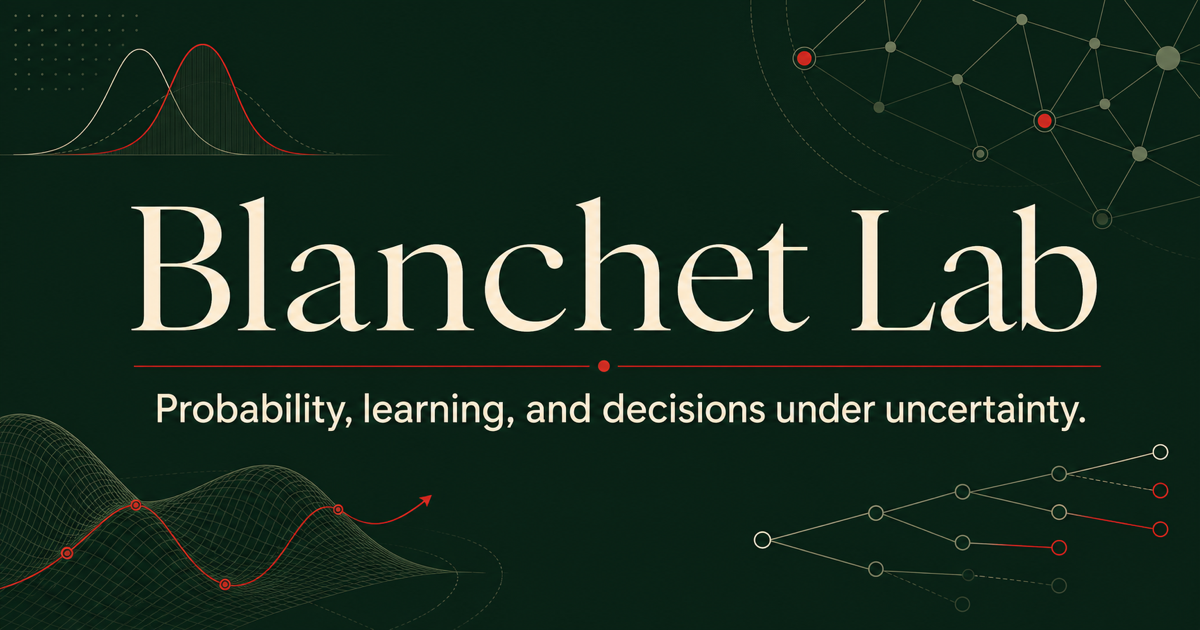
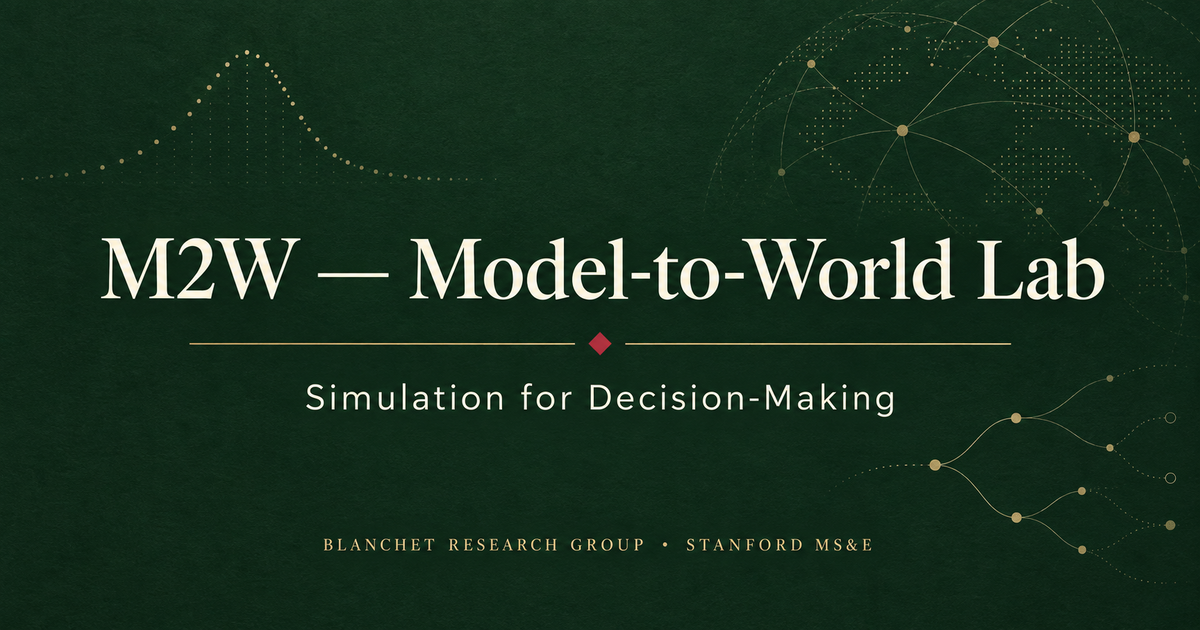
Spell out Model-to-World Lab identity

diff --git a/app/globals.css b/app/globals.css
@@ -32,8 +32,9 @@ img { display: block; max-width: 100%; }
 }
 .brand img { height: auto; width: min(248px, 48vw); }
 .brand-wordmark { display: flex; flex-direction: column; gap: 4px; }
-.brand-primary { font-family: Georgia, 'Times New Roman', serif; font-size: 1.48rem; letter-spacing: -.025em; line-height: 1; }
+.brand-primary { align-items: baseline; display: flex; font-family: Georgia, 'Times New Roman', serif; letter-spacing: -.025em; line-height: 1; white-space: nowrap; }
 .brand-primary strong { color: var(--cardinal); font-family: Inter, ui-sans-serif, sans-serif; font-size: 1.32rem; font-weight: 900; letter-spacing: -.055em; }
+.brand-expansion { font-size: 1.02rem; margin-left: .34em; }
 .brand-secondary { color: #59645d; font-size: .62rem; font-weight: 750; letter-spacing: .055em; text-transform: uppercase; }
 .site-header .desktop-nav { display: flex; gap: clamp(16px, 2vw, 32px); }
 .site-header .desktop-nav a { font-size: .72rem; font-weight: 700; letter-spacing: .075em; text-transform: uppercase; }
@@ -246,8 +247,9 @@ h2 { font-family: Georgia, 'Times New Roman', serif; font-size: clamp(2.5rem, 5v
 .site-footer { background: #161e1a; color: white; display: grid; gap: 46px; grid-template-columns: 1.2fr .7fr 1fr; padding: 66px clamp(24px, 7vw, 110px); }
 .site-footer p, .site-footer a { color: #cbd3ce; font-size: .86rem; line-height: 1.7; margin: 0; }
 .footer-brand { display: inline-flex; flex-direction: column; margin-bottom: 24px; }
-.footer-brand span { color: white; font-family: Georgia, serif; font-size: 1.8rem; line-height: 1; }
+.footer-brand > span { align-items: baseline; color: white; display: flex; font-family: Georgia, serif; line-height: 1; white-space: nowrap; }
 .footer-brand strong { color: #f0c56c; font-family: Inter, sans-serif; font-size: 1.62rem; font-weight: 900; letter-spacing: -.055em; }
+.footer-brand-expansion { font-size: 1.18rem; margin-left: .34em; }
 .footer-brand small { color: #aebcb3; font-size: .63rem; font-weight: 750; letter-spacing: .09em; margin-top: 7px; text-transform: uppercase; }
 .footer-links { display: grid; gap: 4px; }
 .footer-links a:hover, .footer-links a:focus-visible, .footer-address > a:hover, .footer-address > a:focus-visible { color: white; text-decoration: underline; text-underline-offset: 4px; }

diff --git a/app/layout.tsx b/app/layout.tsx
@@ -3,17 +3,17 @@ import './globals.css';
 
 export const metadata: Metadata = {
   metadataBase: new URL(process.env.NEXT_PUBLIC_SITE_URL ?? 'https://joseblanchet.com'),
-  title: 'M2W Lab | Simulation for Decision-Making',
+  title: 'M2W — Model-to-World Lab | Simulation for Decision-Making',
   description: 'The Blanchet Research Group at Stanford MS&E develops models, simulation methods, and decision tools designed to survive the model-to-world gap.',
   openGraph: {
-    title: 'M2W Lab | Simulation for Decision-Making',
+    title: 'M2W — Model-to-World Lab | Simulation for Decision-Making',
     description: 'From simulated worlds to reliable decisions in the real one.',
     type: 'website',
-    images: [{ url: '/og.png', width: 1200, height: 630, alt: 'Blanchet Lab' }],
+    images: [{ url: '/og.png', width: 1200, height: 630, alt: 'M2W — Model-to-World Lab' }],
   },
   twitter: {
     card: 'summary_large_image',
-    title: 'M2W Lab | Simulation for Decision-Making',
+    title: 'M2W — Model-to-World Lab | Simulation for Decision-Making',
     description: 'From simulated worlds to reliable decisions in the real one.',
     images: ['/og.png'],
   },

diff --git a/app/SiteHeader.tsx b/app/SiteHeader.tsx
@@ -33,8 +33,8 @@ export default function SiteHeader({
 }) {
   return (
     <header className={home ? 'site-header' : 'inner-header'}>
-      <a className="brand brand-wordmark" href={sitePath('/')} aria-label="M2W Lab home">
-        <span className="brand-primary"><strong>M2W</strong> Lab</span>
+      <a className="brand brand-wordmark" href={sitePath('/')} aria-label="M2W — Model-to-World Lab home">
+        <span className="brand-primary"><strong>M2W</strong><span className="brand-expansion">— Model-to-World Lab</span></span>
         <span className="brand-secondary">Blanchet Research Group · Stanford MS&amp;E</span>
       </a>
       <nav className="desktop-nav" aria-label="Primary navigation">

diff --git a/app/SiteFooter.tsx b/app/SiteFooter.tsx
@@ -4,8 +4,8 @@ export default function SiteFooter({ contactId }: { contactId?: string }) {
   return (
     <footer className="site-footer" id={contactId}>
       <div>
-        <a className="footer-brand" href={sitePath('/')} aria-label="M2W Lab home">
-          <span><strong>M2W</strong> Lab</span>
+        <a className="footer-brand" href={sitePath('/')} aria-label="M2W — Model-to-World Lab home">
+          <span><strong>M2W</strong><span className="footer-brand-expansion">— Model-to-World Lab</span></span>
           <small>Simulation for Decision-Making</small>
         </a>
         <p>Blanchet Research Group<br />Management Science &amp; Engineering<br />Stanford University</p>

diff --git a/app/about/page.tsx b/app/about/page.tsx
@@ -4,8 +4,8 @@ import SiteHeader from '../SiteHeader';
 import { sitePath } from '../site-path';
 
 export const metadata: Metadata = {
-  title: 'About José Blanchet | M2W Lab',
-  description: 'About José Blanchet, professor of Management Science & Engineering at Stanford and director of the M2W Lab.',
+  title: 'About José Blanchet | Model-to-World Lab',
+  description: 'About José Blanchet, professor of Management Science & Engineering at Stanford and director of the Model-to-World (M2W) Lab.',
 };
 
 export default function AboutPage() {

diff --git a/app/labs/assortment/learning/page.tsx b/app/labs/assortment/learning/page.tsx
@@ -5,7 +5,7 @@ import AssortmentLearningLab from './AssortmentLearningLab';
 import styles from './learning.module.css';
 
 export const metadata: Metadata = {
-  title: 'Assortment Learning Lab | M2W Lab',
+  title: 'Assortment Learning Lab | Model-to-World Lab',
   description: 'A synthetic, interactive demonstration of offline assortment learning, item coverage, pessimism, and holdout evaluation.',
 };
 

diff --git a/app/labs/assortment/page.tsx b/app/labs/assortment/page.tsx
@@ -6,7 +6,7 @@ import AssortmentLab from './AssortmentLab';
 import styles from './assortment.module.css';
 
 export const metadata: Metadata = {
-  title: 'Assortment Decision Lab | M2W Lab',
+  title: 'Assortment Decision Lab | Model-to-World Lab',
   description: 'An interactive synthetic demonstration of assortment decisions under Markov-chain customer substitution.',
 };
 

diff --git a/app/grant-support/page.tsx b/app/grant-support/page.tsx
@@ -4,7 +4,7 @@ import SiteFooter from '../SiteFooter';
 import SiteHeader from '../SiteHeader';
 
 export const metadata: Metadata = {
-  title: 'Funding & Support | M2W Lab',
+  title: 'Funding & Support | Model-to-World Lab',
   description: 'Active, recent, and past grants supporting the Blanchet Research Group and its collaborators.',
 };
 

diff --git a/app/labs/page.tsx b/app/labs/page.tsx
@@ -4,7 +4,7 @@ import SiteHeader from '../SiteHeader';
 import { sitePath } from '../site-path';
 
 export const metadata: Metadata = {
-  title: 'Decision Labs | M2W Lab',
+  title: 'Decision Labs | Model-to-World Lab',
   description: 'Interactive and developing examples of the M2W Model–Simulate–Decide–Transfer research loop.',
 };
 

diff --git a/app/research/page.tsx b/app/research/page.tsx
@@ -4,7 +4,7 @@ import SiteHeader from '../SiteHeader';
 import { sitePath } from '../site-path';
 
 export const metadata: Metadata = {
-  title: 'Research | M2W Lab',
+  title: 'Research | Model-to-World Lab',
   description: 'The M2W research program: modeling, simulation, decision-making, and transfer across the model-to-world gap.',
 };
 

diff --git a/app/publications/page.tsx b/app/publications/page.tsx
@@ -6,7 +6,7 @@ import SiteFooter from '../SiteFooter';
 import SiteHeader from '../SiteHeader';
 
 export const metadata: Metadata = {
-  title: 'Publications | M2W Lab',
+  title: 'Publications | Model-to-World Lab',
   description: 'Publications by José Blanchet and collaborators, synchronized from authoritative scholarly records.',
 };
 

diff --git a/app/people/page.tsx b/app/people/page.tsx
@@ -5,7 +5,7 @@ import SiteFooter from '../SiteFooter';
 import SiteHeader from '../SiteHeader';
 
 export const metadata: Metadata = {
-  title: 'People | M2W Lab',
+  title: 'People | Model-to-World Lab',
   description: 'Current researchers and alumni of the Blanchet Research Group at Stanford, Columbia, and Harvard.',
 };
 
